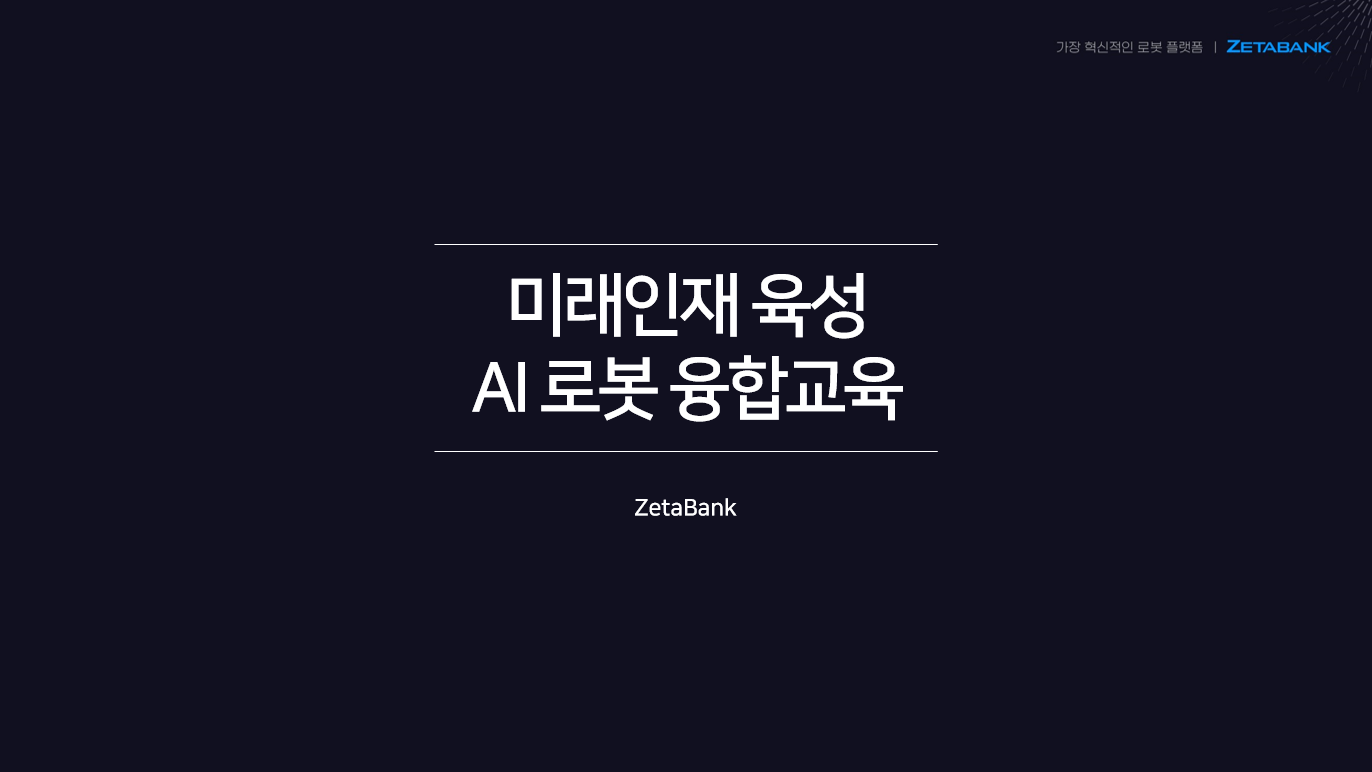
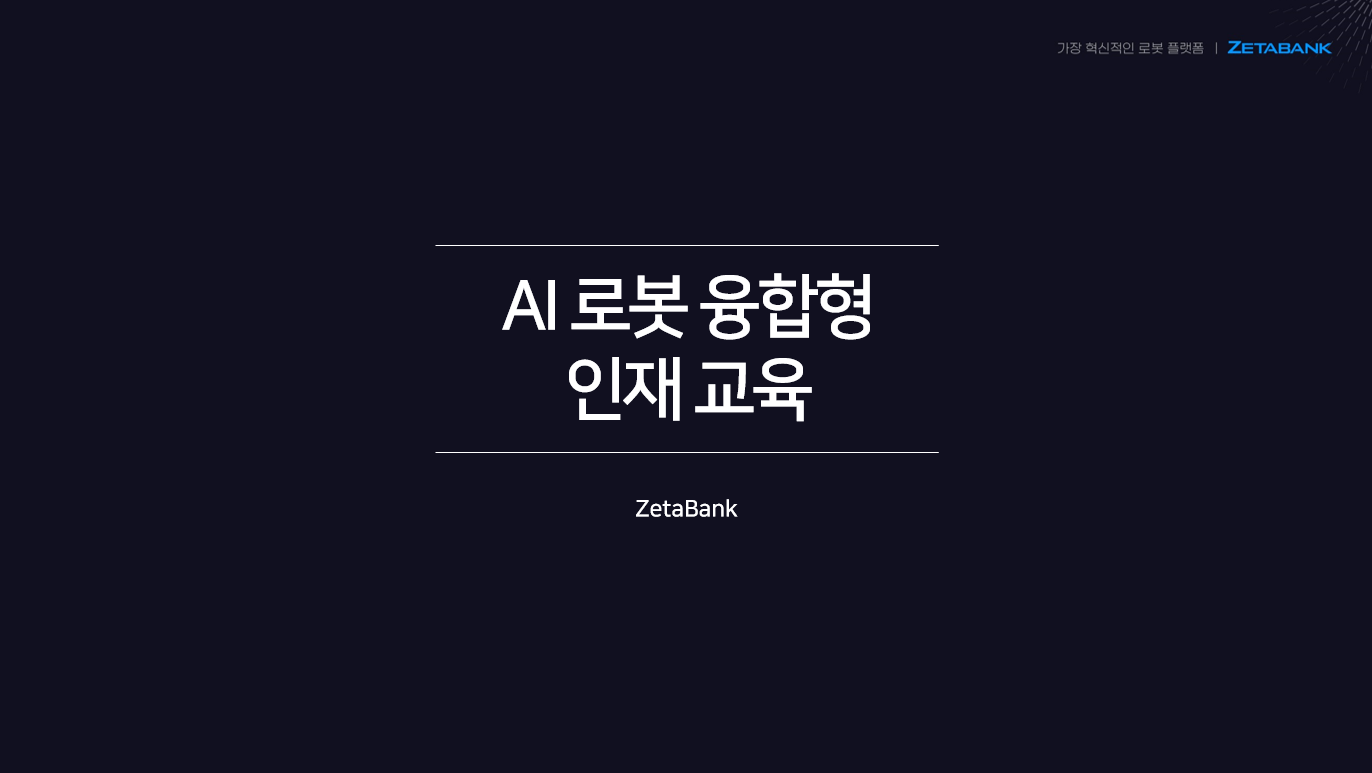
update index

Changed region(s): [[0.3367, 0.342, 0.6735, 0.5596], [0.7653, 0.0, 1.0, 0.0933], [0.4592, 0.6528, 0.551, 0.6839]]

diff --git a/docs/source/index.rst b/docs/source/index.rst
@@ -1,4 +1,4 @@
-AI 로봇 융합교육
+AI 로봇 융합형 인재 교육
 ===================
 
 .. thumbnail:: /_images/education/intro.PNG
@@ -9,13 +9,11 @@ AI 로봇 융합교육
 
 교육 목표
 ^^^^^^^^^^^^^^^
-1. 현재 로봇이 사용되고 있는 분야와 지향하는 미래에 대해 알아봅시다.
+필드에 적용되고 있는 인공지능, 로봇, 자율주행 등의 기술을 경험하고 제어함으로써 미래의 꿈을 꾸는 실전 인재로 양성하고자 함
 
-2. 로봇은 어떻게 구성되어 상세히 알아봅시다.
-
-3. 로봇 체험을 통해 로봇을 조립하고, 제어해봅시다.
-
-4. 팀 미션을 통해 커뮤니케이션 능력과 단합력을 향상시킵니다.
+1. AI, 로보틱스, 자율주행 등의 첨단 기술을 체험할 수 있는 기회 제공
+2. 팀 프로젝트 형식을 통해 통해 지식을 공유하고 상호 학습하며, 효율적인 업무 수행을 경험
+3. 체계적인 AI 로봇 실습 교육 프로그램을 통해 로봇 제어 기술과 코딩에 대한 능력 향상
 
 .. toctree:: 
     :caption: AI 로봇 미래 동향과 교육
@@ -24,7 +22,6 @@ AI 로봇 융합교육
     :titlesonly: 
 
     edu/edu_1/timetable
-    edu/edu_1/team
     edu/edu_1/trends
 
 .. toctree:: 

diff --git a/docs/source/edu/edu_1/timetable.rst b/docs/source/edu/edu_1/timetable.rst
@@ -1,9 +1,6 @@
 시간표
 ====================================================
 
-오늘의 교육 시간표
-^^^^^^^^^^^^^^^^^^^^^^^^^^^
-
 .. thumbnail:: /_images/education/timetable.png
       :width: 800
       :height: 500
